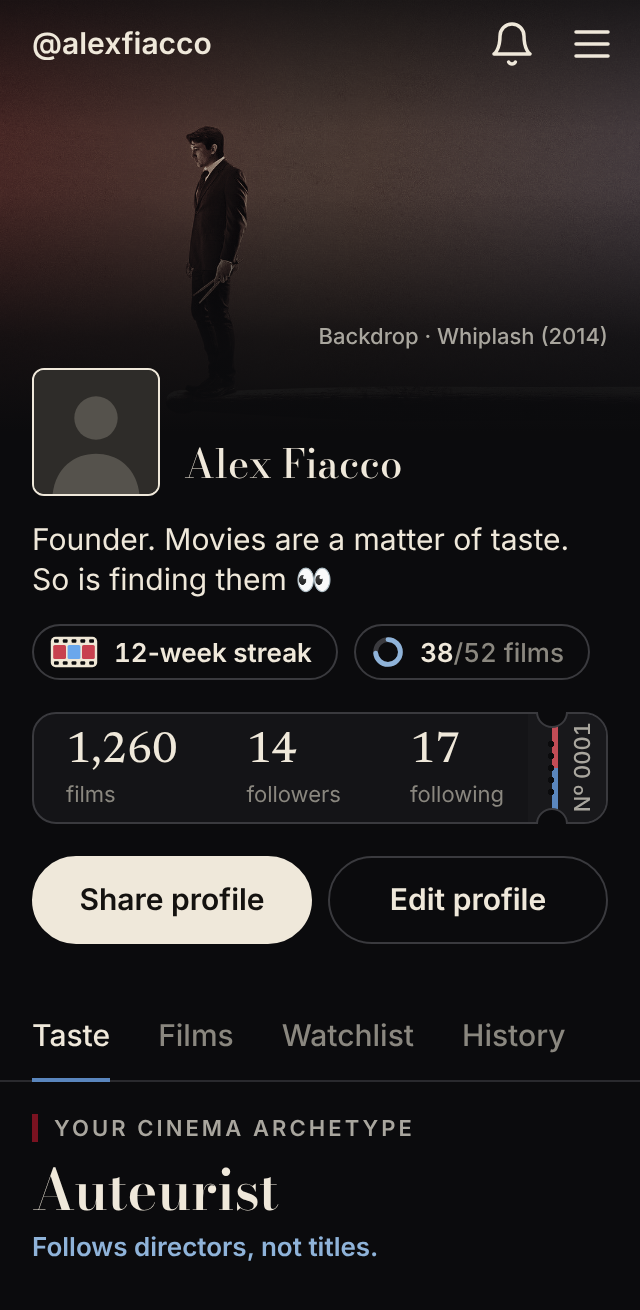
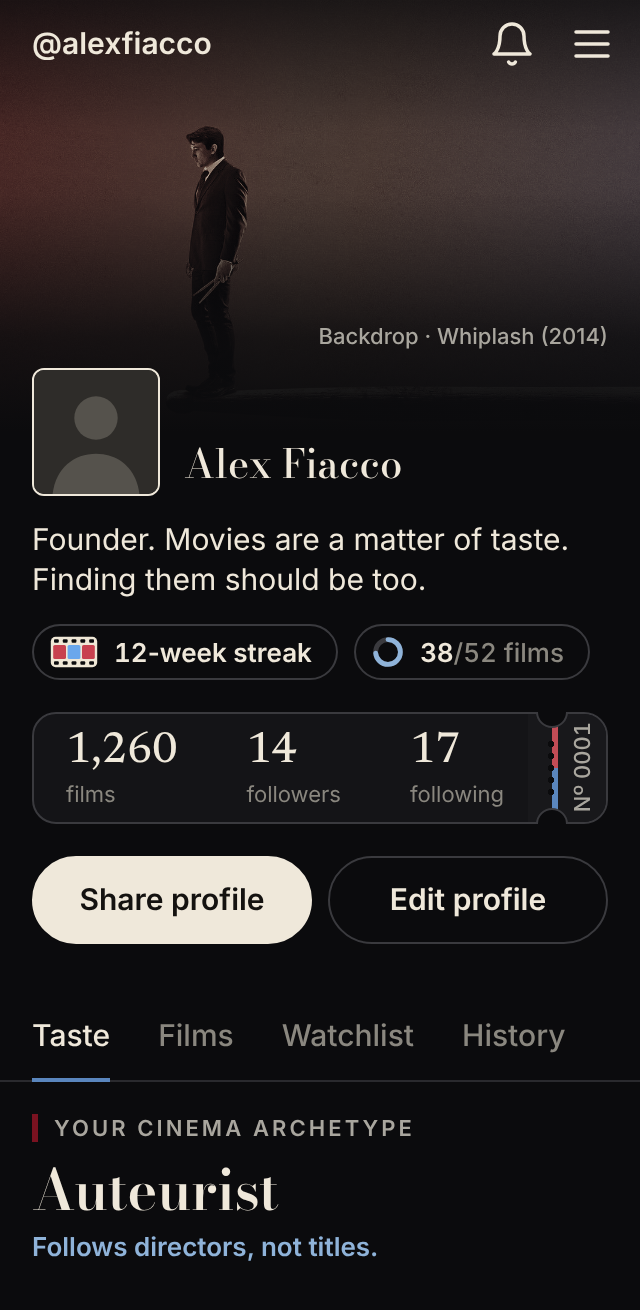
Profile header v19 renders
Claude-Session: https://claude.ai/code/session_013WRDCFXH8nihP92apJAVW7

Changed region(s): [[0.0312, 0.4275, 0.6562, 0.458]]

diff --git a/mockups/journeys/profile-header-v19.html b/mockups/journeys/profile-header-v19.html
@@ -144,13 +144,13 @@
 <div class="grid2" style="grid-template-columns:390px 320px"><div><div class="cap rec">Profile</div><div class="ph" data-shot="own" style="width:390px"><div class="hero"><div class="still" style="background-image:url(assets/backdrop-whiplash.jpg)"></div><div class="split"></div><div class="fade"></div><span class="credit">Backdrop · Whiplash (2014)</span>
   <div class="bar"><span class="h">@alexfiacco</span><span class="nb"><svg class="i"><use href="#bell"/></svg></span><span class="nb"><svg class="i"><use href="#menu2"/></svg></span></div></div><div class="body">
   <div class="who"><div class="face"><svg><use href="#person"/></svg></div><h2 class="name">Alex Fiacco</h2></div>
-  <p class="bio">Founder. Movies are a matter of taste. Finding them should be too 👀</p><div class="chips"><span class="chip"><svg class="strip" viewBox="0 0 30 20" aria-hidden="true"><rect x="0.5" y="0.5" width="29" height="19" rx="3" fill="#efe7d6"/><g fill="#0b0b0d"><rect x="2.5" y="2" width="3" height="2.2" rx=".6"/><rect x="2.5" y="15.8" width="3" height="2.2" rx=".6"/><rect x="8" y="2" width="3" height="2.2" rx=".6"/><rect x="8" y="15.8" width="3" height="2.2" rx=".6"/><rect x="13.5" y="2" width="3" height="2.2" rx=".6"/><rect x="13.5" y="15.8" width="3" height="2.2" rx=".6"/><rect x="19" y="2" width="3" height="2.2" rx=".6"/><rect x="19" y="15.8" width="3" height="2.2" rx=".6"/><rect x="24.5" y="2" width="3" height="2.2" rx=".6"/><rect x="24.5" y="15.8" width="3" height="2.2" rx=".6"/></g><rect x="2" y="5.6" width="8" height="8.8" rx="1" fill="#c8414f"/><rect x="11" y="5.6" width="8" height="8.8" rx="1" fill="#6aa7ec"/><rect x="20" y="5.6" width="8" height="8.8" rx="1" fill="#c8414f"/></svg><span><span class="t">12</span><span class="lg">-week streak</span><span class="sh">-wk streak</span></span></span><span class="chip"><svg class="ring" viewBox="0 0 16 16" aria-hidden="true"><circle cx="8" cy="8" r="6.2" fill="none" stroke="var(--line-2)" stroke-width="2.4"/><circle cx="8" cy="8" r="6.2" fill="none" stroke="var(--accent-2)" stroke-width="2.4" stroke-linecap="round" stroke-dasharray="28.47 38.96"/></svg><span><b class="t">38</b><span class="dim"><span class="t">/52</span><span class="lg"> films</span></span></span></span></div><div class="ticket own"><div class="stats"><span class="cell "><b class="fig">1,260</b><span class="lab">films</span></span><span class="cell "><b class="fig">14</b><span class="lab">followers</span></span><span class="cell "><b class="fig">17</b><span class="lab">following</span></span></div>
+  <p class="bio">Founder. Movies are a matter of taste. Finding them should be too.</p><div class="chips"><span class="chip"><svg class="strip" viewBox="0 0 30 20" aria-hidden="true"><rect x="0.5" y="0.5" width="29" height="19" rx="3" fill="#efe7d6"/><g fill="#0b0b0d"><rect x="2.5" y="2" width="3" height="2.2" rx=".6"/><rect x="2.5" y="15.8" width="3" height="2.2" rx=".6"/><rect x="8" y="2" width="3" height="2.2" rx=".6"/><rect x="8" y="15.8" width="3" height="2.2" rx=".6"/><rect x="13.5" y="2" width="3" height="2.2" rx=".6"/><rect x="13.5" y="15.8" width="3" height="2.2" rx=".6"/><rect x="19" y="2" width="3" height="2.2" rx=".6"/><rect x="19" y="15.8" width="3" height="2.2" rx=".6"/><rect x="24.5" y="2" width="3" height="2.2" rx=".6"/><rect x="24.5" y="15.8" width="3" height="2.2" rx=".6"/></g><rect x="2" y="5.6" width="8" height="8.8" rx="1" fill="#c8414f"/><rect x="11" y="5.6" width="8" height="8.8" rx="1" fill="#6aa7ec"/><rect x="20" y="5.6" width="8" height="8.8" rx="1" fill="#c8414f"/></svg><span><span class="t">12</span><span class="lg">-week streak</span><span class="sh">-wk streak</span></span></span><span class="chip"><svg class="ring" viewBox="0 0 16 16" aria-hidden="true"><circle cx="8" cy="8" r="6.2" fill="none" stroke="var(--line-2)" stroke-width="2.4"/><circle cx="8" cy="8" r="6.2" fill="none" stroke="var(--accent-2)" stroke-width="2.4" stroke-linecap="round" stroke-dasharray="28.47 38.96"/></svg><span><b class="t">38</b><span class="dim"><span class="t">/52</span><span class="lg"> films</span></span></span></span></div><div class="ticket own"><div class="stats"><span class="cell "><b class="fig">1,260</b><span class="lab">films</span></span><span class="cell "><b class="fig">14</b><span class="lab">followers</span></span><span class="cell "><b class="fig">17</b><span class="lab">following</span></span></div>
   <div class="stub"><span class="tear"><i></i></span><span class="div"><i></i><i></i></span><span class="no"><span>Nº 0001</span></span></div></div><div class="acts"><span class="btn fill">Share profile</span><span class="btn">Edit profile</span></div>
   <div class="tabs"><span class="on">Taste</span><span>Films</span><span>Watchlist</span><span>History</span></div>
   <div class="arch"><div class="eb">Your cinema archetype</div><div class="an">Auteurist</div><div class="at">Follows directors, not titles.</div></div></div></div></div><div><div class="cap">320</div><div class="ph" data-shot="own-320" style="width:320px"><div class="hero"><div class="still" style="background-image:url(assets/backdrop-whiplash.jpg)"></div><div class="split"></div><div class="fade"></div><span class="credit">Backdrop · Whiplash (2014)</span>
   <div class="bar"><span class="h">@alexfiacco</span><span class="nb"><svg class="i"><use href="#bell"/></svg></span><span class="nb"><svg class="i"><use href="#menu2"/></svg></span></div></div><div class="body">
   <div class="who"><div class="face"><svg><use href="#person"/></svg></div><h2 class="name">Alex Fiacco</h2></div>
-  <p class="bio">Founder. Movies are a matter of taste. Finding them should be too 👀</p><div class="chips"><span class="chip"><svg class="strip" viewBox="0 0 30 20" aria-hidden="true"><rect x="0.5" y="0.5" width="29" height="19" rx="3" fill="#efe7d6"/><g fill="#0b0b0d"><rect x="2.5" y="2" width="3" height="2.2" rx=".6"/><rect x="2.5" y="15.8" width="3" height="2.2" rx=".6"/><rect x="8" y="2" width="3" height="2.2" rx=".6"/><rect x="8" y="15.8" width="3" height="2.2" rx=".6"/><rect x="13.5" y="2" width="3" height="2.2" rx=".6"/><rect x="13.5" y="15.8" width="3" height="2.2" rx=".6"/><rect x="19" y="2" width="3" height="2.2" rx=".6"/><rect x="19" y="15.8" width="3" height="2.2" rx=".6"/><rect x="24.5" y="2" width="3" height="2.2" rx=".6"/><rect x="24.5" y="15.8" width="3" height="2.2" rx=".6"/></g><rect x="2" y="5.6" width="8" height="8.8" rx="1" fill="#c8414f"/><rect x="11" y="5.6" width="8" height="8.8" rx="1" fill="#6aa7ec"/><rect x="20" y="5.6" width="8" height="8.8" rx="1" fill="#c8414f"/></svg><span><span class="t">12</span><span class="lg">-week streak</span><span class="sh">-wk streak</span></span></span><span class="chip"><svg class="ring" viewBox="0 0 16 16" aria-hidden="true"><circle cx="8" cy="8" r="6.2" fill="none" stroke="var(--line-2)" stroke-width="2.4"/><circle cx="8" cy="8" r="6.2" fill="none" stroke="var(--accent-2)" stroke-width="2.4" stroke-linecap="round" stroke-dasharray="28.47 38.96"/></svg><span><b class="t">38</b><span class="dim"><span class="t">/52</span><span class="lg"> films</span></span></span></span></div><div class="ticket own"><div class="stats"><span class="cell "><b class="fig">1,260</b><span class="lab">films</span></span><span class="cell "><b class="fig">14</b><span class="lab">followers</span></span><span class="cell "><b class="fig">17</b><span class="lab">following</span></span></div>
+  <p class="bio">Founder. Movies are a matter of taste. Finding them should be too.</p><div class="chips"><span class="chip"><svg class="strip" viewBox="0 0 30 20" aria-hidden="true"><rect x="0.5" y="0.5" width="29" height="19" rx="3" fill="#efe7d6"/><g fill="#0b0b0d"><rect x="2.5" y="2" width="3" height="2.2" rx=".6"/><rect x="2.5" y="15.8" width="3" height="2.2" rx=".6"/><rect x="8" y="2" width="3" height="2.2" rx=".6"/><rect x="8" y="15.8" width="3" height="2.2" rx=".6"/><rect x="13.5" y="2" width="3" height="2.2" rx=".6"/><rect x="13.5" y="15.8" width="3" height="2.2" rx=".6"/><rect x="19" y="2" width="3" height="2.2" rx=".6"/><rect x="19" y="15.8" width="3" height="2.2" rx=".6"/><rect x="24.5" y="2" width="3" height="2.2" rx=".6"/><rect x="24.5" y="15.8" width="3" height="2.2" rx=".6"/></g><rect x="2" y="5.6" width="8" height="8.8" rx="1" fill="#c8414f"/><rect x="11" y="5.6" width="8" height="8.8" rx="1" fill="#6aa7ec"/><rect x="20" y="5.6" width="8" height="8.8" rx="1" fill="#c8414f"/></svg><span><span class="t">12</span><span class="lg">-week streak</span><span class="sh">-wk streak</span></span></span><span class="chip"><svg class="ring" viewBox="0 0 16 16" aria-hidden="true"><circle cx="8" cy="8" r="6.2" fill="none" stroke="var(--line-2)" stroke-width="2.4"/><circle cx="8" cy="8" r="6.2" fill="none" stroke="var(--accent-2)" stroke-width="2.4" stroke-linecap="round" stroke-dasharray="28.47 38.96"/></svg><span><b class="t">38</b><span class="dim"><span class="t">/52</span><span class="lg"> films</span></span></span></span></div><div class="ticket own"><div class="stats"><span class="cell "><b class="fig">1,260</b><span class="lab">films</span></span><span class="cell "><b class="fig">14</b><span class="lab">followers</span></span><span class="cell "><b class="fig">17</b><span class="lab">following</span></span></div>
   <div class="stub"><span class="tear"><i></i></span><span class="div"><i></i><i></i></span><span class="no"><span>Nº 0001</span></span></div></div><div class="acts"><span class="btn fill">Share profile</span><span class="btn">Edit profile</span></div>
   <div class="tabs"><span class="on">Taste</span><span>Films</span><span>Watchlist</span><span>History</span></div>
   <div class="arch"><div class="eb">Your cinema archetype</div><div class="an">Auteurist</div><div class="at">Follows directors, not titles.</div></div></div></div></div></div></section>
